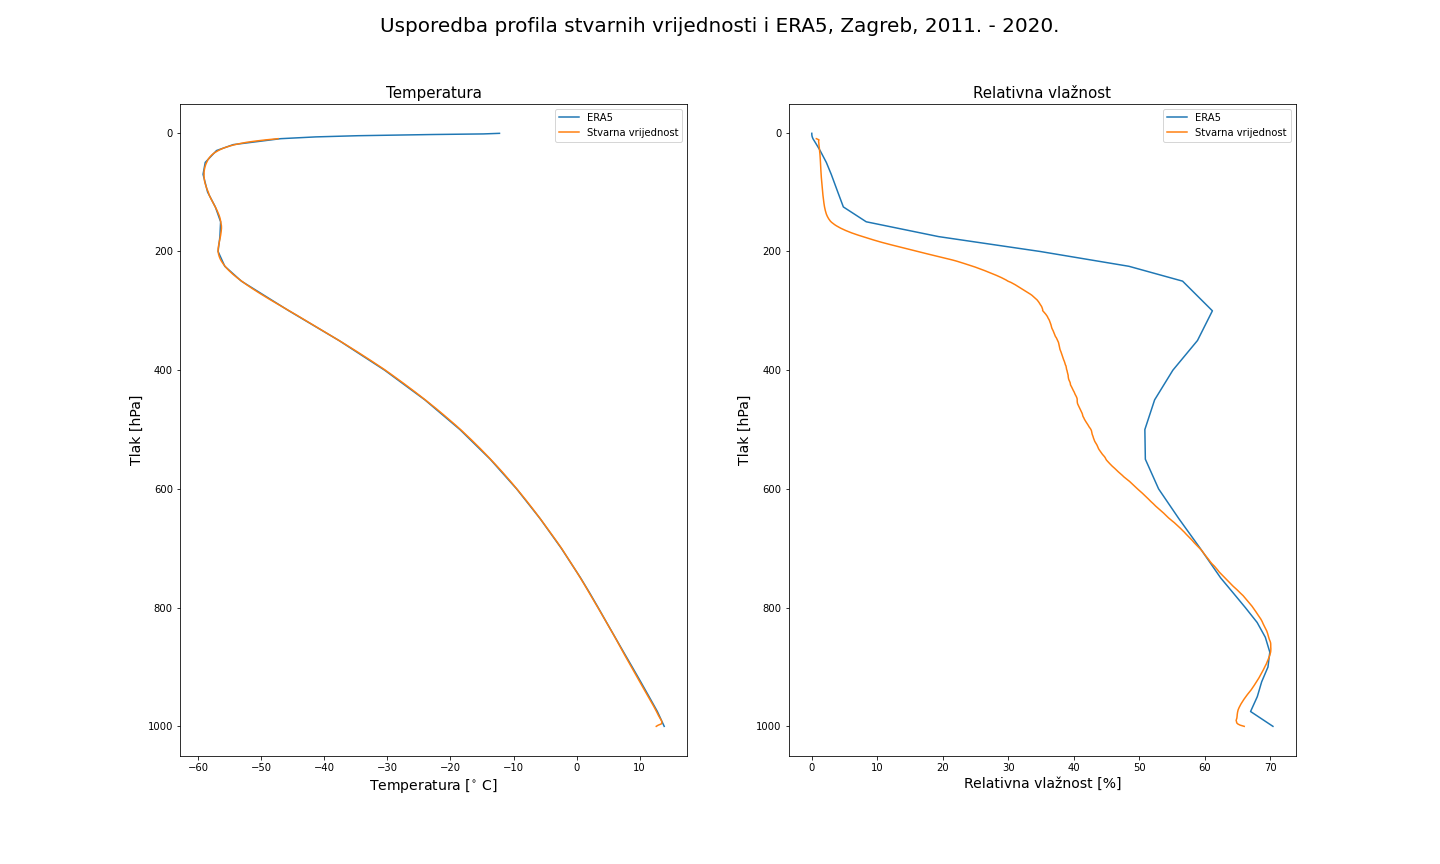
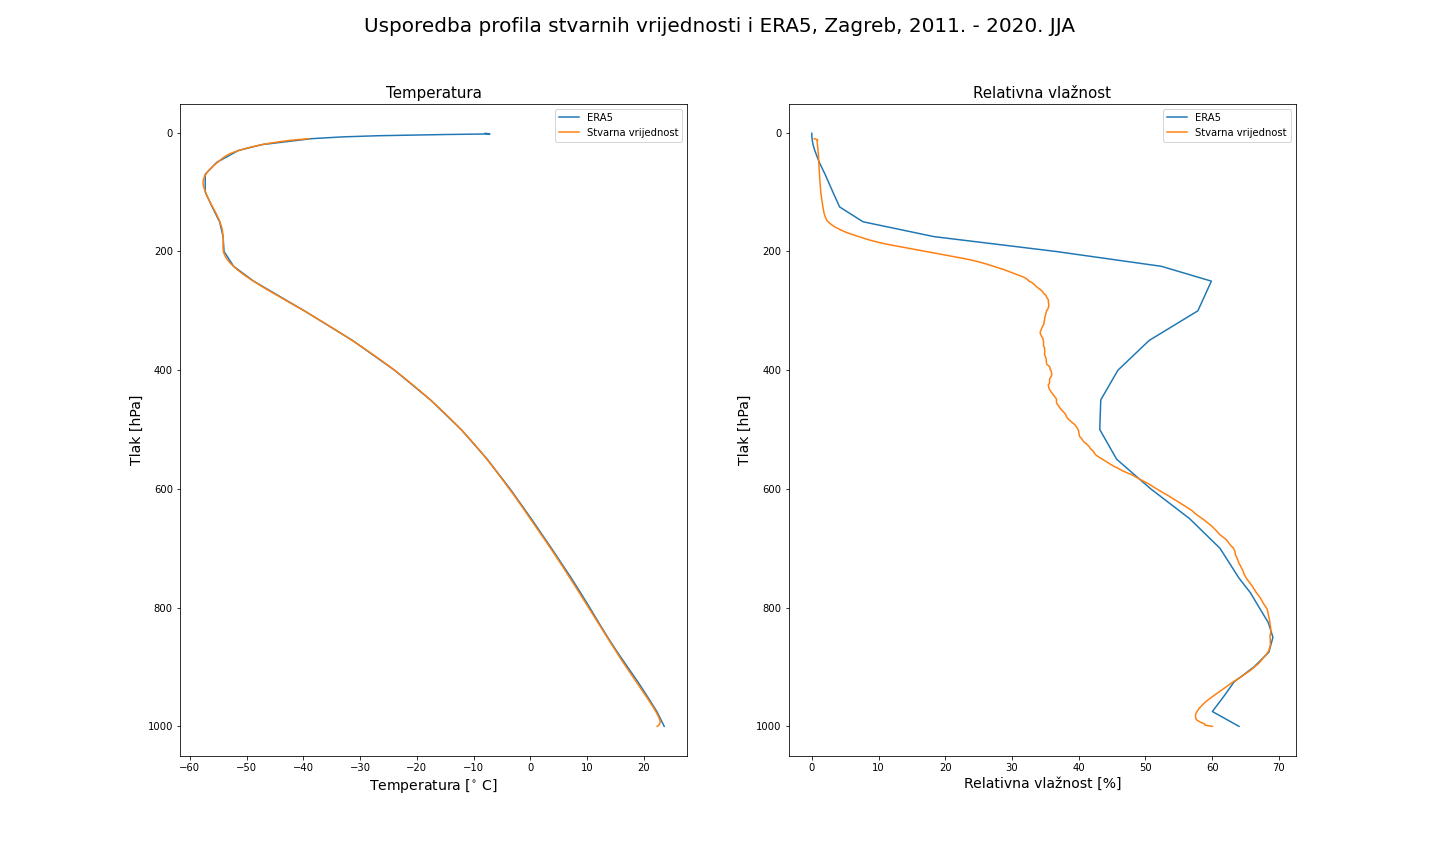
add other profile comparisons

diff --git a/modules.py b/modules.py
@@ -381,3 +381,23 @@ def profile_comparison(zg_temp_00, zg_temp_12, zg_rel_00, zg_rel_12, zd_temp_00,
     graph.profile_comparison("data/soundings/zg.txt", [zg_temp_00, zg_temp_12], [zg_rel_00, zg_rel_12], levels, title="Usporedba profila stvarnih vrijednosti i ERA5, Zagreb, 2011. - 2020.")
     plt.savefig("profile_comparison_zg_mean.png", facecolor='white', transparent=False)
     plt.close()
+
+    graph.profile_comparison("data/soundings/zg_JJA.txt", [zg_temp_00, zg_temp_12], [zg_rel_00, zg_rel_12], levels, title="Usporedba profila stvarnih vrijednosti i ERA5, Zagreb, 2011. - 2020. JJA", season="JJA")
+    plt.savefig("profile_comparison_zg_mean_JJA.png", facecolor='white', transparent=False)
+    plt.close()
+
+    graph.profile_comparison("data/soundings/zg_DJF.txt", [zg_temp_00, zg_temp_12], [zg_rel_00, zg_rel_12], levels, title="Usporedba profila stvarnih vrijednosti i ERA5, Zagreb, 2011. - 2020. DJF", season="DJF")
+    plt.savefig("profile_comparison_zg_mean_DJF.png", facecolor='white', transparent=False)
+    plt.close()
+
+    graph.profile_comparison("data/soundings/zd.txt", [zd_temp_00, zd_temp_12], [zd_rel_00, zd_rel_12], levels, title="Usporedba profila stvarnih vrijednosti i ERA5, Zadar, 2011. - 2020.")
+    plt.savefig("profile_comparison_zd_mean.png", facecolor='white', transparent=False)
+    plt.close()
+
+    graph.profile_comparison("data/soundings/zd_JJD.txt", [zd_temp_00, zd_temp_12], [zd_rel_00, zd_rel_12], levels, title="Usporedba profila stvarnih vrijednosti i ERA5, Zadar, 2011. - 2020. JJA", season="JJA")
+    plt.savefig("profile_comparison_zd_mean_JJA.png", facecolor='white', transparent=False)
+    plt.close()
+
+    graph.profile_comparison("data/soundings/zd_DJF.txt", [zd_temp_00, zd_temp_12], [zd_rel_00, zd_rel_12], levels, title="Usporedba profila stvarnih vrijednosti i ERA5, Zadar, 2011. - 2020. DJF", season="DJF")
+    plt.savefig("profile_comparison_zd_mean_DJF.png", facecolor='white', transparent=False)
+    plt.close()

diff --git a/functions.py b/functions.py
@@ -4,14 +4,19 @@ from sklearn.linear_model import LinearRegression
 import statsmodels.api as sm
 
 
-def get_mean_values_by_level(values, levels):
+def get_mean_values_by_level(values, levels, season):
     era5_mean = []
 
     for level in range(len(levels)):
         current_values = []
 
         for time_step in range(852, 972):
-            current_values.append(util.get_average_or_single_value(values, time_step, level))
+            if season == "none":
+                current_values.append(util.get_average_or_single_value(values, time_step, level))
+            else:
+                value = util.get_seasonal_value(values, time_step, level, season)
+                if value:
+                    current_values.append(value)
 
         era5_mean.append(np.mean(current_values))
 

diff --git a/graph.py b/graph.py
@@ -141,11 +141,11 @@ def comparison(era5_temp, era5_rel, real_temp, real_rel):
     ax[1].set_title("Relativna vlažnost", fontsize=title_size)
 
 
-def profile_comparison(sondage_file, temp, rel, levels, title):
+def profile_comparison(sondage_file, temp, rel, levels, title, season="none"):
     all_pressure_levels = np.linspace(10, 1000, 500)
     real_temp, real_rel = fn.get_sounding_values_by_level(sondage_file, all_pressure_levels)
-    era5_temp = fn.get_mean_values_by_level(temp, levels)
-    era5_rel = fn.get_mean_values_by_level(rel, levels)
+    era5_temp = fn.get_mean_values_by_level(temp, levels, season)
+    era5_rel = fn.get_mean_values_by_level(rel, levels, season)
 
     fig, ax = plt.subplots(1, 2, figsize=(20, 12))
     fig.suptitle(title, fontsize=suptitle_size)
